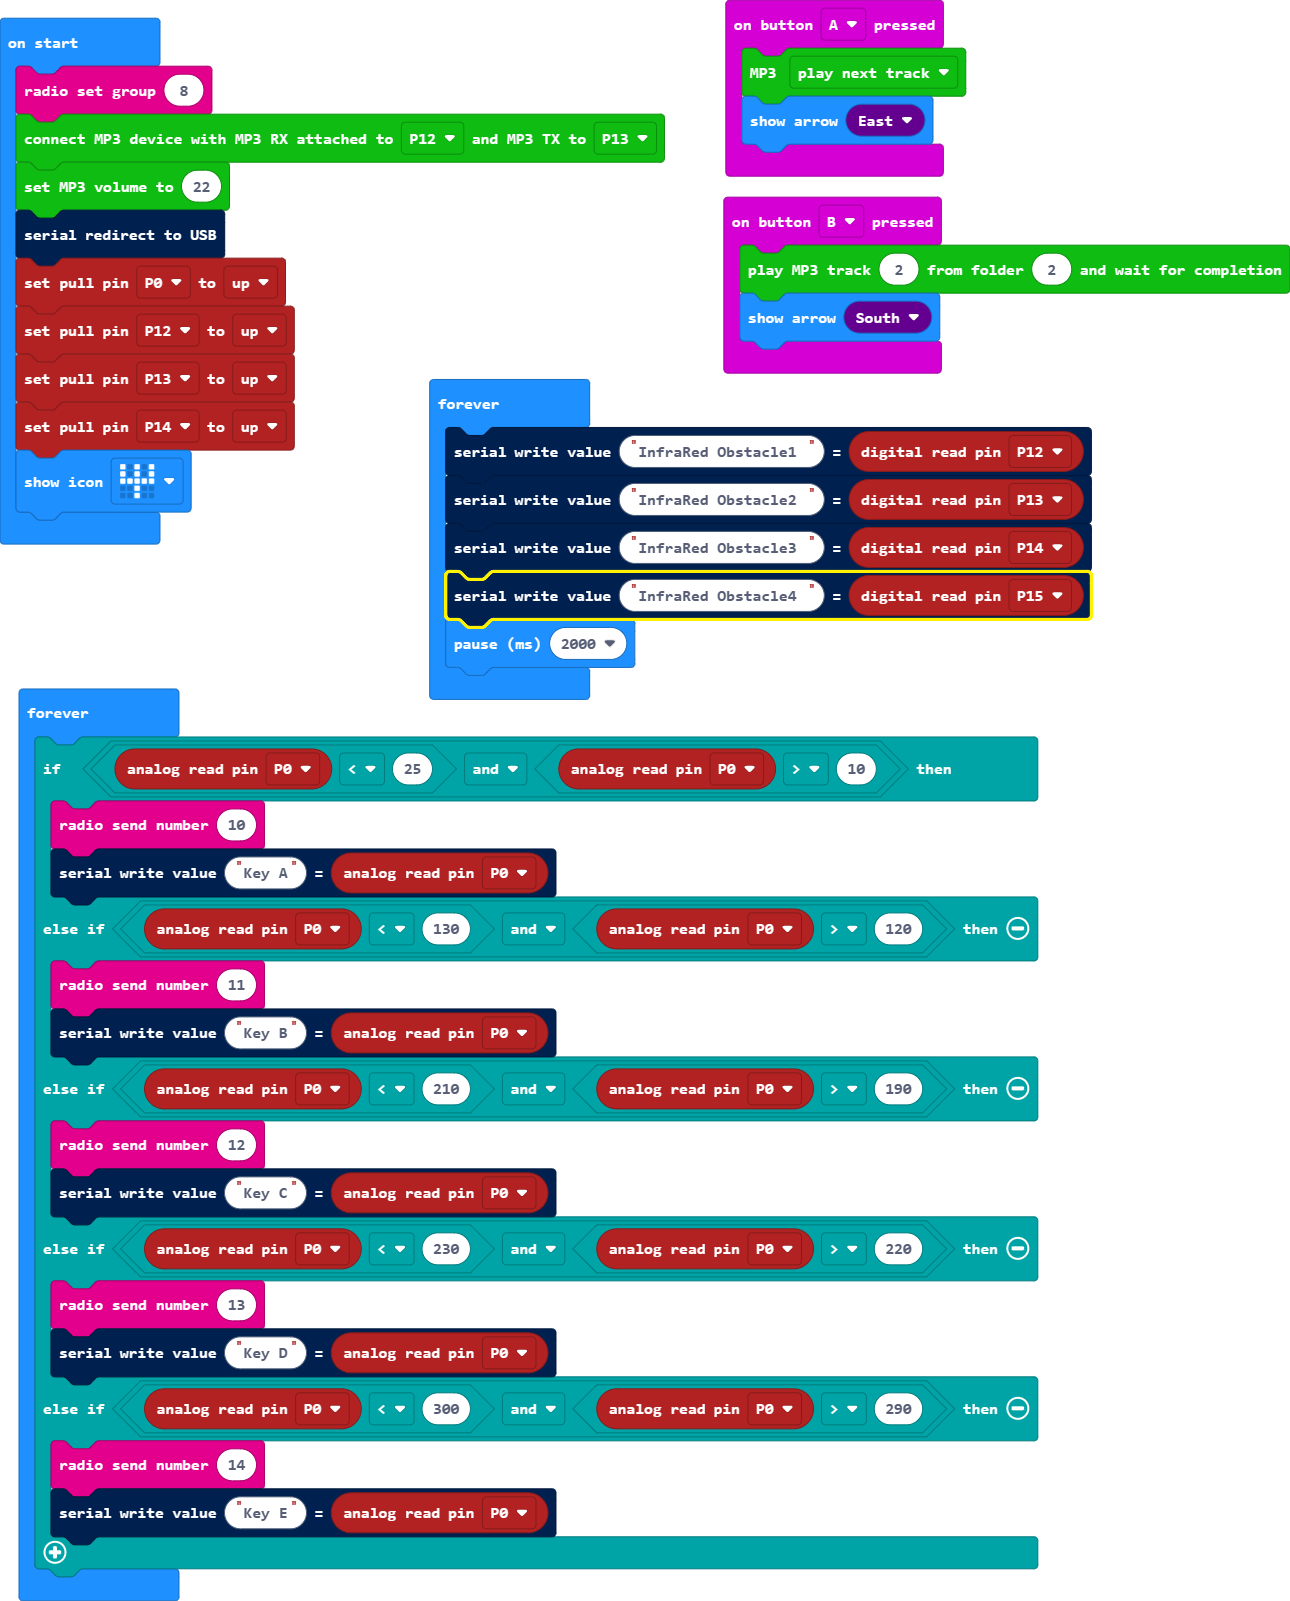
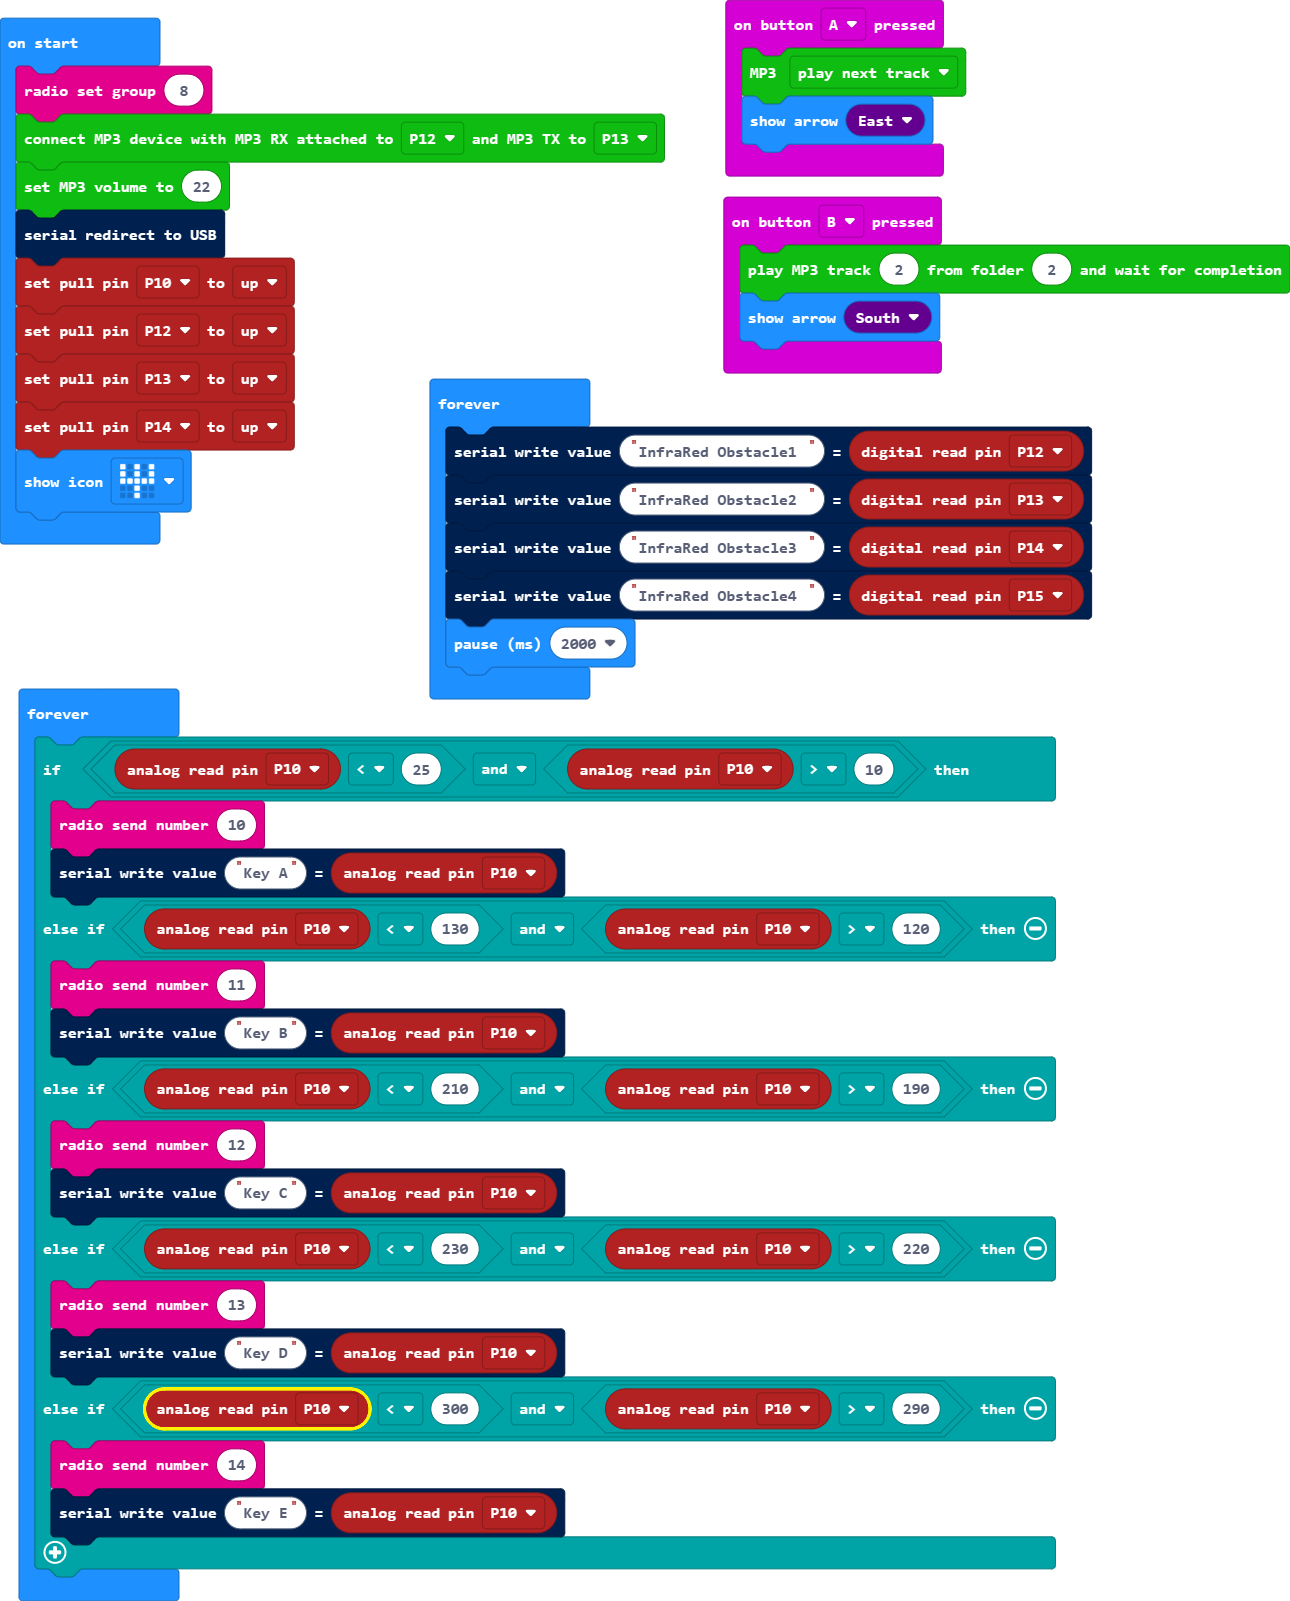
Update main.blocks, main.ts

diff --git a/main.ts b/main.ts
@@ -10,7 +10,7 @@ radio.setGroup(8)
 makerbit.connectSerialMp3(DigitalPin.P12, DigitalPin.P13)
 makerbit.setMp3Volume(22)
 serial.redirectToUSB()
-pins.setPull(DigitalPin.P0, PinPullMode.PullUp)
+pins.setPull(DigitalPin.P10, PinPullMode.PullUp)
 pins.setPull(DigitalPin.P12, PinPullMode.PullUp)
 pins.setPull(DigitalPin.P13, PinPullMode.PullUp)
 pins.setPull(DigitalPin.P14, PinPullMode.PullUp)
@@ -23,20 +23,20 @@ basic.forever(function () {
     basic.pause(2000)
 })
 basic.forever(function () {
-    if (pins.analogReadPin(AnalogPin.P0) < 25 && pins.analogReadPin(AnalogPin.P0) > 10) {
+    if (pins.analogReadPin(AnalogPin.P10) < 25 && pins.analogReadPin(AnalogPin.P10) > 10) {
         radio.sendNumber(10)
-        serial.writeValue("Key A", pins.analogReadPin(AnalogPin.P0))
-    } else if (pins.analogReadPin(AnalogPin.P0) < 130 && pins.analogReadPin(AnalogPin.P0) > 120) {
+        serial.writeValue("Key A", pins.analogReadPin(AnalogPin.P10))
+    } else if (pins.analogReadPin(AnalogPin.P10) < 130 && pins.analogReadPin(AnalogPin.P10) > 120) {
         radio.sendNumber(11)
-        serial.writeValue("Key B", pins.analogReadPin(AnalogPin.P0))
-    } else if (pins.analogReadPin(AnalogPin.P0) < 210 && pins.analogReadPin(AnalogPin.P0) > 190) {
+        serial.writeValue("Key B", pins.analogReadPin(AnalogPin.P10))
+    } else if (pins.analogReadPin(AnalogPin.P10) < 210 && pins.analogReadPin(AnalogPin.P10) > 190) {
         radio.sendNumber(12)
-        serial.writeValue("Key C", pins.analogReadPin(AnalogPin.P0))
-    } else if (pins.analogReadPin(AnalogPin.P0) < 230 && pins.analogReadPin(AnalogPin.P0) > 220) {
+        serial.writeValue("Key C", pins.analogReadPin(AnalogPin.P10))
+    } else if (pins.analogReadPin(AnalogPin.P10) < 230 && pins.analogReadPin(AnalogPin.P10) > 220) {
         radio.sendNumber(13)
-        serial.writeValue("Key D", pins.analogReadPin(AnalogPin.P0))
-    } else if (pins.analogReadPin(AnalogPin.P0) < 300 && pins.analogReadPin(AnalogPin.P0) > 290) {
+        serial.writeValue("Key D", pins.analogReadPin(AnalogPin.P10))
+    } else if (pins.analogReadPin(AnalogPin.P10) < 300 && pins.analogReadPin(AnalogPin.P10) > 290) {
         radio.sendNumber(14)
-        serial.writeValue("Key E", pins.analogReadPin(AnalogPin.P0))
+        serial.writeValue("Key E", pins.analogReadPin(AnalogPin.P10))
     }
 })
